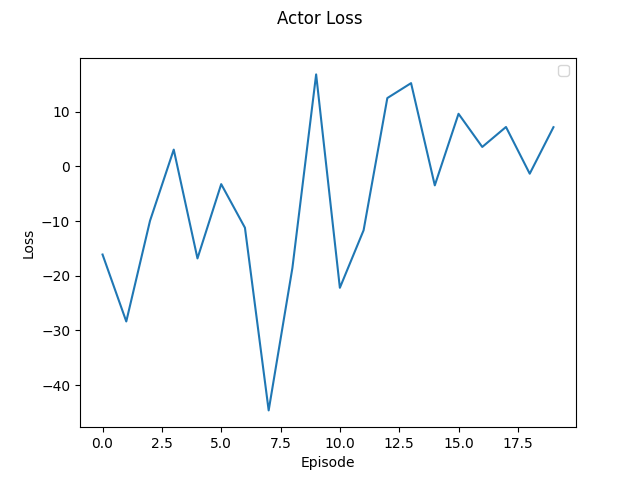
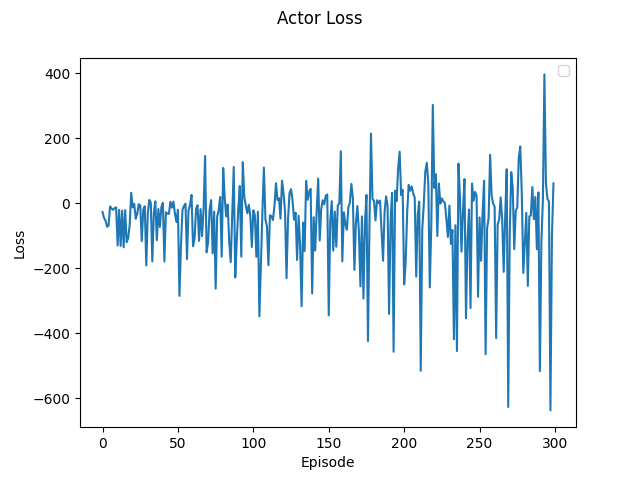
Updated again state and reward features

diff --git a/entities/player.py b/entities/player.py
@@ -19,6 +19,7 @@ class Player(pygame.sprite.Sprite):
                  player_id,
                  role,
                  position,
+                 map_edge,
                  groups,
                  obstacle_sprites,
                  visible_sprites,
@@ -28,6 +29,7 @@ class Player(pygame.sprite.Sprite):
         super().__init__(groups)
 
         self.initial_position = position
+        self.map_edge = map_edge
         self.player_id = player_id
         self.distance_direction_from_enemy = None
 
@@ -146,6 +148,14 @@ class Player(pygame.sprite.Sprite):
 
     def get_current_state(self):
 
+        def fermi(x, a):
+            # Used for rescaling features
+            return 1 / (np.exp(-(x - a)) + 1)
+
+        def maxwell(x, a):
+            # Used for rescaling features
+            return 1 / np.exp((x - a) / a)
+
         if self.distance_direction_from_enemy != []:
             sorted_distances = sorted(
                 self.distance_direction_from_enemy, key=lambda x: x[0])
@@ -159,26 +169,34 @@ class Player(pygame.sprite.Sprite):
         self.reward_features = [
             self.stats.exp,
 
-            10/nearest_dist if nearest_dist > 10 else 1,
+            fermi(nearest_dist, 10),
 
-            1/(np.exp((nearest_enemy.stats.health -
-               nearest_enemy.stats.monster_info['health'])
-                      / nearest_enemy.stats.monster_info['health'])) - 1,
+            fermi(
+                nearest_enemy.stats.health,
+                nearest_enemy.stats.monster_info['health']
+            ),
 
-            1/(np.exp((len(self.distance_direction_from_enemy) -
-               self.max_num_enemies)/self.max_num_enemies)) - 1,
+            maxwell(
+                len(self.distance_direction_from_enemy),
+                self.max_num_enemies
+            ) - 1,
 
-            1 - 1/(np.exp((self.stats.health -
-                   self.stats.stats['health'])/self.stats.stats['health']))
+            - fermi(
+                self.stats.health,
+                self.stats.stats['health']
+            ),
+
         ]
 
         self.state_features = [
-            np.exp(-self.animation.rect.center[0]),
-            np.exp(-self.animation.rect.center[1]),
+            self.animation.rect.center[0]/self.map_edge[0],
+            self.animation.rect.center[1]/self.map_edge[1],
             self._input.movement.direction.x,
             self._input.movement.direction.y,
             self.stats.health/self.stats.stats['health'],
-            self.stats.energy/self.stats.stats['energy']
+            self.stats.energy/self.stats.stats['energy'],
+            1 if 'attack' in self._input.status else 0,
+
         ]
 
         enemy_states = []
@@ -186,15 +204,14 @@ class Player(pygame.sprite.Sprite):
         for distance, direction, enemy in self.distance_direction_from_enemy:
             enemy_states.extend([
 
-                10/distance if distance > 10 else 1,
+                fermi(distance, 10),
 
                 direction[0],
 
                 direction[1],
 
-                1/(np.exp((nearest_enemy.stats.health -
-                           nearest_enemy.stats.monster_info['health'])
-                          / nearest_enemy.stats.monster_info['health'])) - 1,
+                nearest_enemy.stats.health /
+                nearest_enemy.stats.monster_info['health'],
 
                 enemy.stats.exp,
             ])

diff --git a/level.py b/level.py
@@ -79,12 +79,16 @@ class Level:
 
                         # Generate unpassable terrain
                         if style == 'boundary':
-                            if col != '700':
+
+                            if col == '600':
+                                self.map_edge = (x, y)
+
+                            elif col != '700':
                                 Terrain((x, y),
                                         [self.obstacle_sprites,
                                             self.visible_sprites],
                                         'invisible')
-                            if col == '700':
+                            elif col == '700' and self.n_players > 1:
                                 print(f"Prison set at:{(x, y)}")
                         # Generate grass
                         if style == 'grass':
@@ -145,6 +149,7 @@ class Level:
                 player_id,
                 'tank',
                 choice(self.possible_player_locations),
+                self.map_edge,
                 [self.visible_sprites],
                 self.obstacle_sprites,
                 self.visible_sprites,
@@ -215,7 +220,7 @@ class Level:
             player.stats.energy\
                 = player.stats.stats['energy']
 
-            # player.stats.exp = 0
+            player.stats.exp = 0
 
         self.get_entities()
         self.get_distance_direction()
